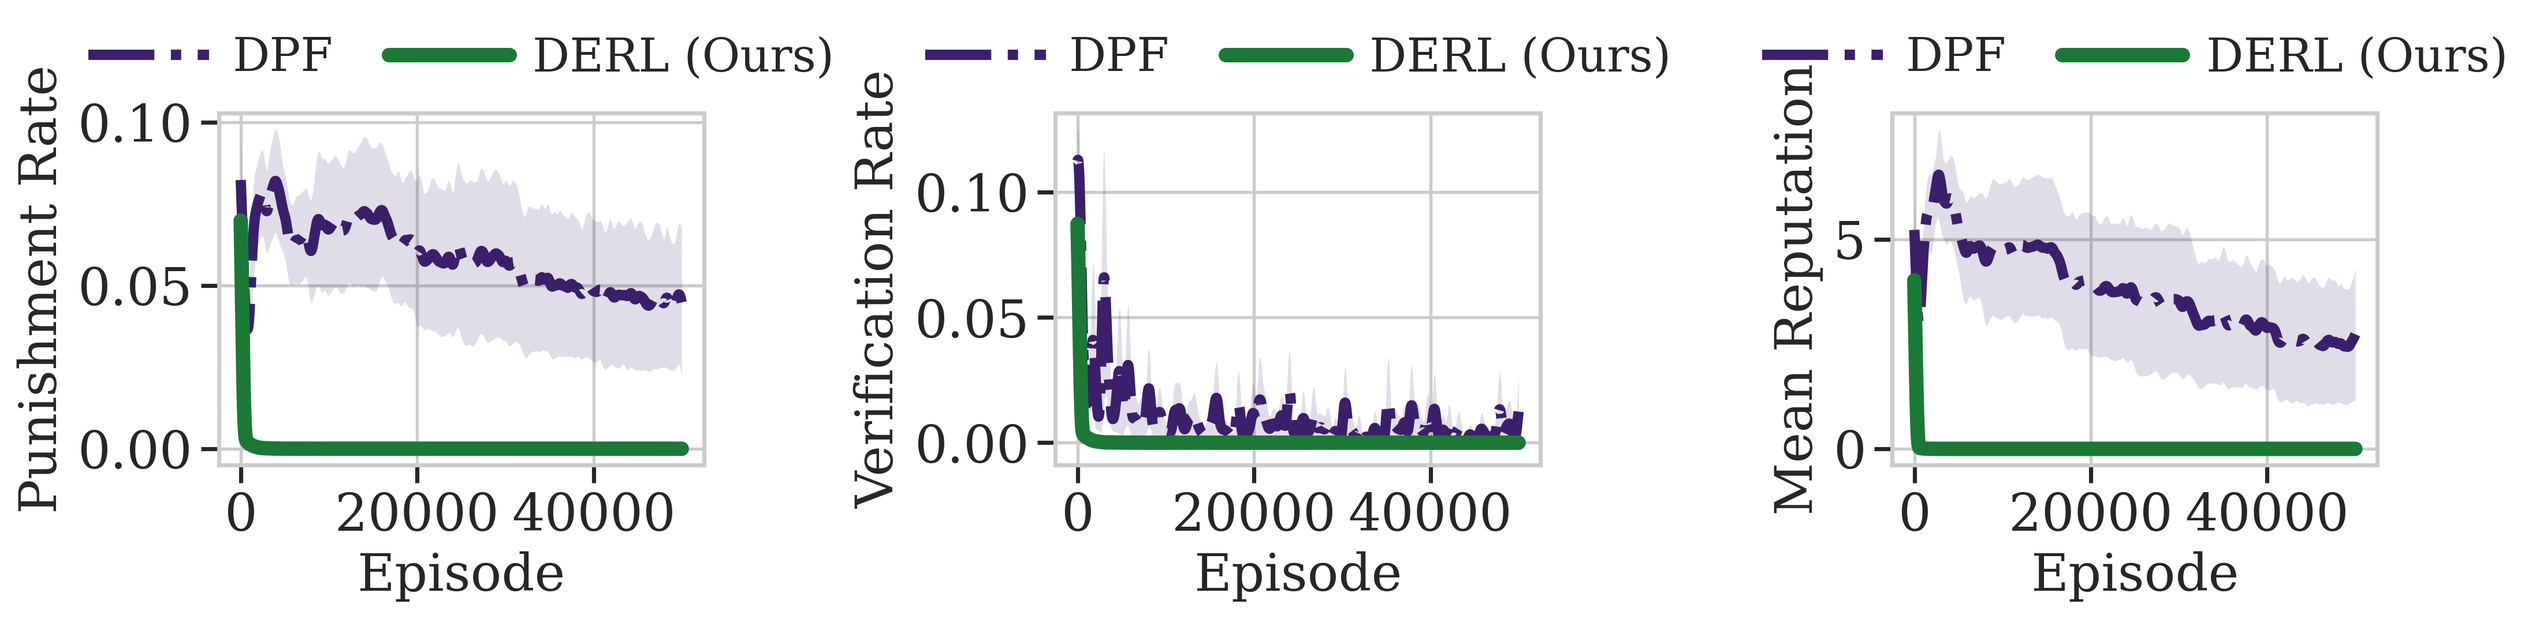
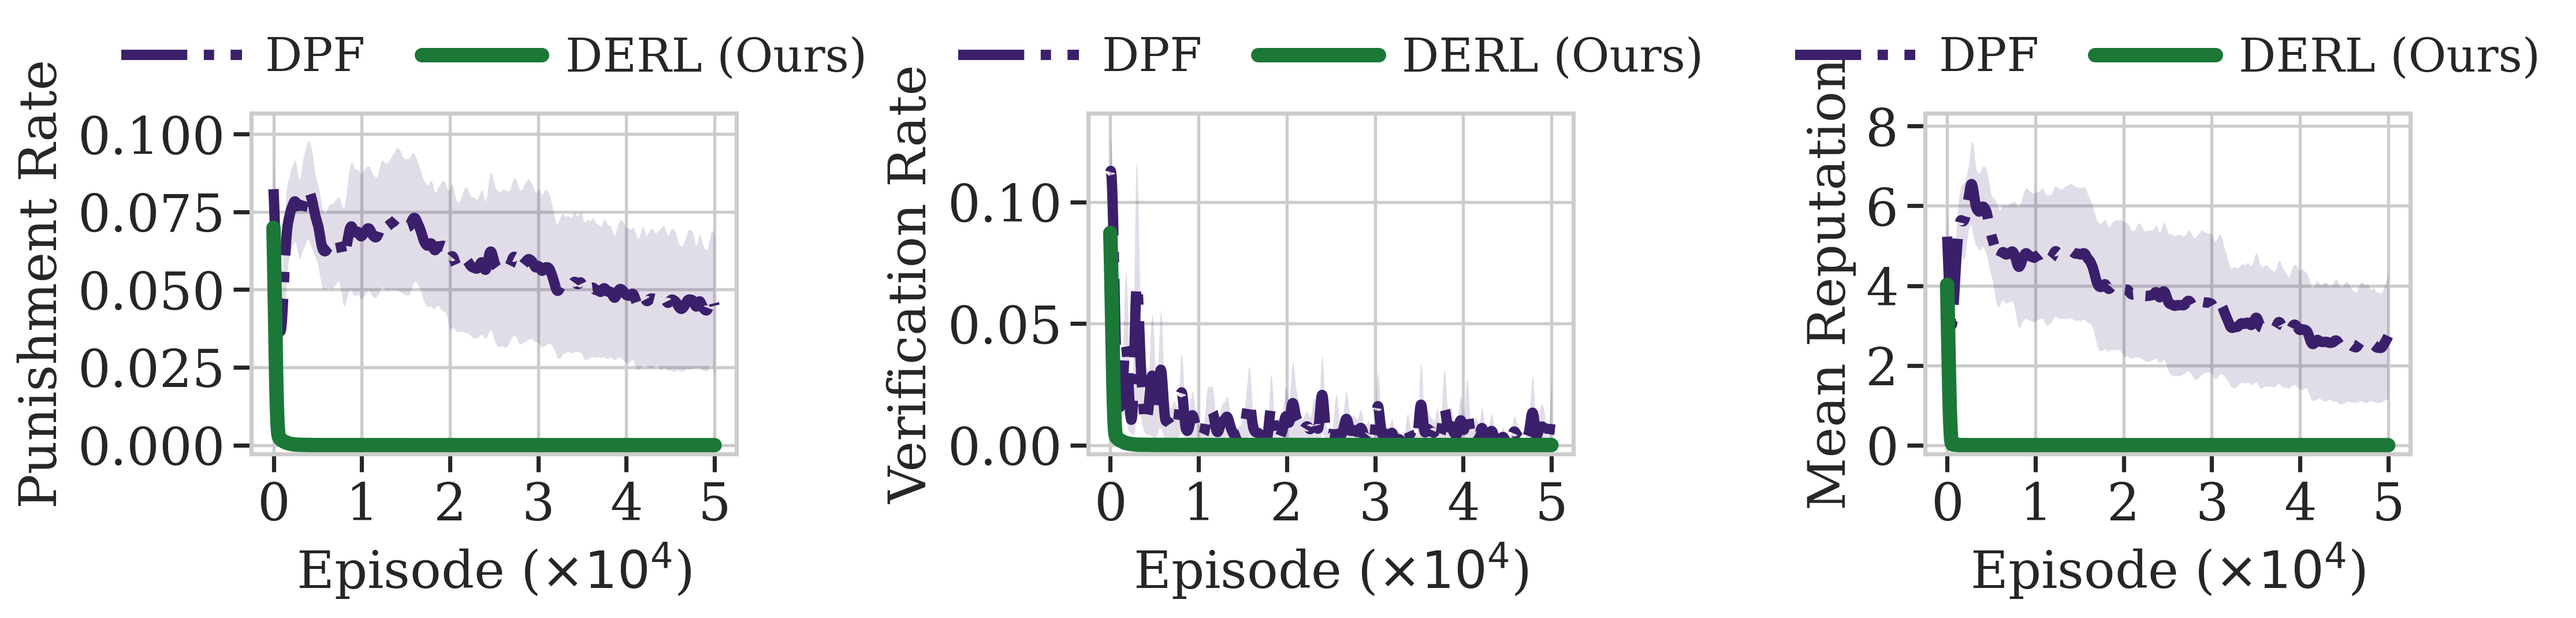
updated plots 2

diff --git a/plot_from_checkpoints.py b/plot_from_checkpoints.py
@@ -27,6 +27,7 @@ and how much headroom each figure has above the 7pt floor.
 import os, argparse
 import numpy as np
 import matplotlib.pyplot as plt
+from matplotlib.ticker import MaxNLocator
 
 CONDITIONS = ["SRB", "ES", "DPF", "DERL", "AC"]
 ABL_PRS    = [0.0, 0.5, 1.5, 3.0]
@@ -110,6 +111,39 @@ def _legend(ax, ncol=2):
               handletextpad=0.5, borderaxespad=0.3)
 
 
+def _episode_axis(ax, n_ep):
+    """
+    Label the x-axis in units of 10^k so ticks stay short (0..5 instead of
+    0..50000). The factor goes in the axis label rather than a corner offset,
+    which would collide with the label at print size.
+    """
+    exp = int(np.floor(np.log10(max(n_ep, 1)))) if n_ep > 0 else 0
+    if exp < 3:
+        ax.set_xlabel("Episode")
+        return
+    div = 10.0 ** exp
+    ax.xaxis.set_major_formatter(plt.FuncFormatter(lambda v, _: f"{v/div:g}"))
+    ax.xaxis.set_major_locator(MaxNLocator(nbins=6, steps=[1, 2, 2.5, 5, 10]))
+    ax.set_xlabel(rf"Episode ($\times 10^{{{exp}}}$)")
+
+
+def _fit_y(ax):
+    """
+    Fit the y-range to what is actually drawn instead of a fixed limit.
+    Hardcoded limits left `truth` and `mine` using only a third of their panel,
+    which squeezed the curves together; fitting spreads them out.
+    """
+    ax.margins(y=0.09)
+    ax.autoscale_view()
+    # fitting the range can leave only two ticks; keep enough to read values off
+    ax.yaxis.set_major_locator(MaxNLocator(nbins=5, steps=[1, 2, 2.5, 5, 10]))
+    lo, hi = ax.get_ylim()
+    if lo < 0:
+        # these metrics are all non-negative: keep a sliver below zero so a
+        # flat-at-zero series is still visible, but no misleading negative span
+        ax.set_ylim(-0.025 * (hi - lo), hi)
+
+
 def sm(x_2d, w=100):
     if x_2d.ndim == 1:
         x_2d = x_2d.reshape(1, -1)
@@ -138,7 +172,7 @@ def _save(fig, fname):
     plt.close(fig)
 
 
-def _curve(R, key, ylabel, fname, panel_w, conds=None, ylim=None):
+def _curve(R, key, ylabel, fname, panel_w, n_ep, conds=None):
     """Single-panel figure. No title — the LaTeX caption carries that."""
     source_w = 6.5
     sty(source_w, panel_w)
@@ -148,9 +182,9 @@ def _curve(R, key, ylabel, fname, panel_w, conds=None, ylim=None):
         if c in R:
             plot_with_fill(ax, R[c][key], label=LB.get(c, c),
                            color=CL.get(c, "#000"), **st(c))
-    ax.set(xlabel="Episode", ylabel=ylabel)
-    if ylim:
-        ax.set_ylim(ylim)
+    ax.set_ylabel(ylabel)
+    _episode_axis(ax, n_ep)
+    _fit_y(ax)
     _legend(ax, ncol=2)
     fig.tight_layout()
     _save(fig, fname)
@@ -208,12 +242,13 @@ def make_plots(R, od, print_w=7.0, panel_w=3.4):
 
 def _draw_all(R, print_w, panel_w):
     n_saved = 0
+    n_ep = R[next(c for c in CONDITIONS if c in R)]["truth"].shape[1]
 
     # ── Figs 1-4, 7, 8: single panels, printed inside 2x2 composites ──────
-    _curve(R, "truth",  "Truth Rate",  "fig01_epistemic",     panel_w, ylim=(-0.02, 0.65))
-    _curve(R, "gather", "Gather Rate", "fig02_ethical",       panel_w, ylim=(-0.02, 1.0))
-    _curve(R, "lie",    "Lie Rate",    "fig03_hallucination", panel_w, ylim=(-0.02, 1.0))
-    _curve(R, "mine",   "Mine Rate",   "fig04_moral_drift",   panel_w, ylim=(-0.02, 0.5))
+    _curve(R, "truth",  "Truth Rate",  "fig01_epistemic",     panel_w, n_ep)
+    _curve(R, "gather", "Gather Rate", "fig02_ethical",       panel_w, n_ep)
+    _curve(R, "lie",    "Lie Rate",    "fig03_hallucination", panel_w, n_ep)
+    _curve(R, "mine",   "Mine Rate",   "fig04_moral_drift",   panel_w, n_ep)
     n_saved += 4
 
     # ── Fig 5: emergent social dynamics, full-width 3-panel strip ─────────
@@ -226,10 +261,11 @@ def _draw_all(R, print_w, panel_w):
         plot_with_fill(axes[0], R[c]["punish"],   label=LB[c], color=CL[c], **st(c))
         plot_with_fill(axes[1], R[c]["verify"],   label=LB[c], color=CL[c], **st(c))
         plot_with_fill(axes[2], R[c]["mean_rep"], label=LB[c], color=CL[c], **st(c))
-    axes[0].set(xlabel="Episode", ylabel="Punishment Rate")
-    axes[1].set(xlabel="Episode", ylabel="Verification Rate")
-    axes[2].set(xlabel="Episode", ylabel="Mean Reputation")
-    for a in axes:
+    for a, yl in zip(axes, ["Punishment Rate", "Verification Rate",
+                            "Mean Reputation"]):
+        a.set_ylabel(yl)
+        _episode_axis(a, n_ep)
+        _fit_y(a)
         _legend(a, ncol=2)
     fig.tight_layout()
     _save(fig, "fig05_social")
@@ -244,9 +280,11 @@ def _draw_all(R, print_w, panel_w):
             continue
         plot_with_fill(a1, R[c]["coop"],       label=LB[c], color=CL[c], **st(c))
         plot_with_fill(a2, R[c]["oracle_acc"], label=LB[c], color=CL[c], **st(c))
-    a1.set(xlabel="Episode", ylabel="Cooperation Rate", ylim=(-0.02, 0.5))
-    a2.set(xlabel="Episode", ylabel="Oracle Accuracy",  ylim=(-0.02, 1.05))
-    _legend(a1, ncol=2); _legend(a2, ncol=2)
+    for a, yl in zip((a1, a2), ["Cooperation Rate", "Oracle Accuracy"]):
+        a.set_ylabel(yl)
+        _episode_axis(a, n_ep)
+        _fit_y(a)
+        _legend(a, ncol=2)
     fig.tight_layout()
     _save(fig, "fig06_coop_oracle")
     n_saved += 1
@@ -260,7 +298,9 @@ def _draw_all(R, print_w, panel_w):
             continue
         ax.plot(np.cumsum(np.mean(R[c]["reward"], axis=0)),
                 label=LB[c], color=CL[c], **st(c))
-    ax.set(xlabel="Episode", ylabel="Cumulative Reward")
+    ax.set_ylabel("Cumulative Reward")
+    _episode_axis(ax, n_ep)
+    _fit_y(ax)
     # y only: an x-axis offset label would collide with "Episode" at print size,
     # and plain episode counts match the other panels.
     ax.ticklabel_format(axis='y', style='sci', scilimits=(0, 0), useMathText=True)
@@ -270,8 +310,7 @@ def _draw_all(R, print_w, panel_w):
     n_saved += 1
 
     # ── Fig 8: resource sustainability ────────────────────────────────────
-    mx = max(np.mean(R[c]["res"], axis=0).max() for c in MC if c in R)
-    _curve(R, "res", "Active Resources", "fig08_resources", panel_w, ylim=(0, mx * 1.2))
+    _curve(R, "res", "Active Resources", "fig08_resources", panel_w, n_ep)
     n_saved += 1
 
     # ── Fig 9: punishment-profitability ablation ──────────────────────────
@@ -329,11 +368,13 @@ def _draw_all(R, print_w, panel_w):
         axes[0].set(ylabel="Rate"); _legend(axes[0], ncol=2)
         plot_with_fill(axes[1], ed["coop"], "DPF", CL["DPF"], **st("DPF"))
         plot_with_fill(axes[1], cd["coop"], "AC",  CL["AC"],  **st("AC"))
-        axes[1].set(xlabel="Episode", ylabel="Cooperation Rate", ylim=(-0.02, 0.5))
+        axes[1].set_ylabel("Cooperation Rate")
+        _episode_axis(axes[1], n_ep); _fit_y(axes[1])
         _legend(axes[1], ncol=2)
         plot_with_fill(axes[2], ed["oracle_acc"], "DPF", CL["DPF"], **st("DPF"))
         plot_with_fill(axes[2], cd["oracle_acc"], "AC",  CL["AC"],  **st("AC"))
-        axes[2].set(xlabel="Episode", ylabel="Oracle Accuracy", ylim=(-0.02, 1.05))
+        axes[2].set_ylabel("Oracle Accuracy")
+        _episode_axis(axes[2], n_ep); _fit_y(axes[2])
         _legend(axes[2], ncol=2)
         fig.tight_layout()
         _save(fig, "fig10_collusion")
